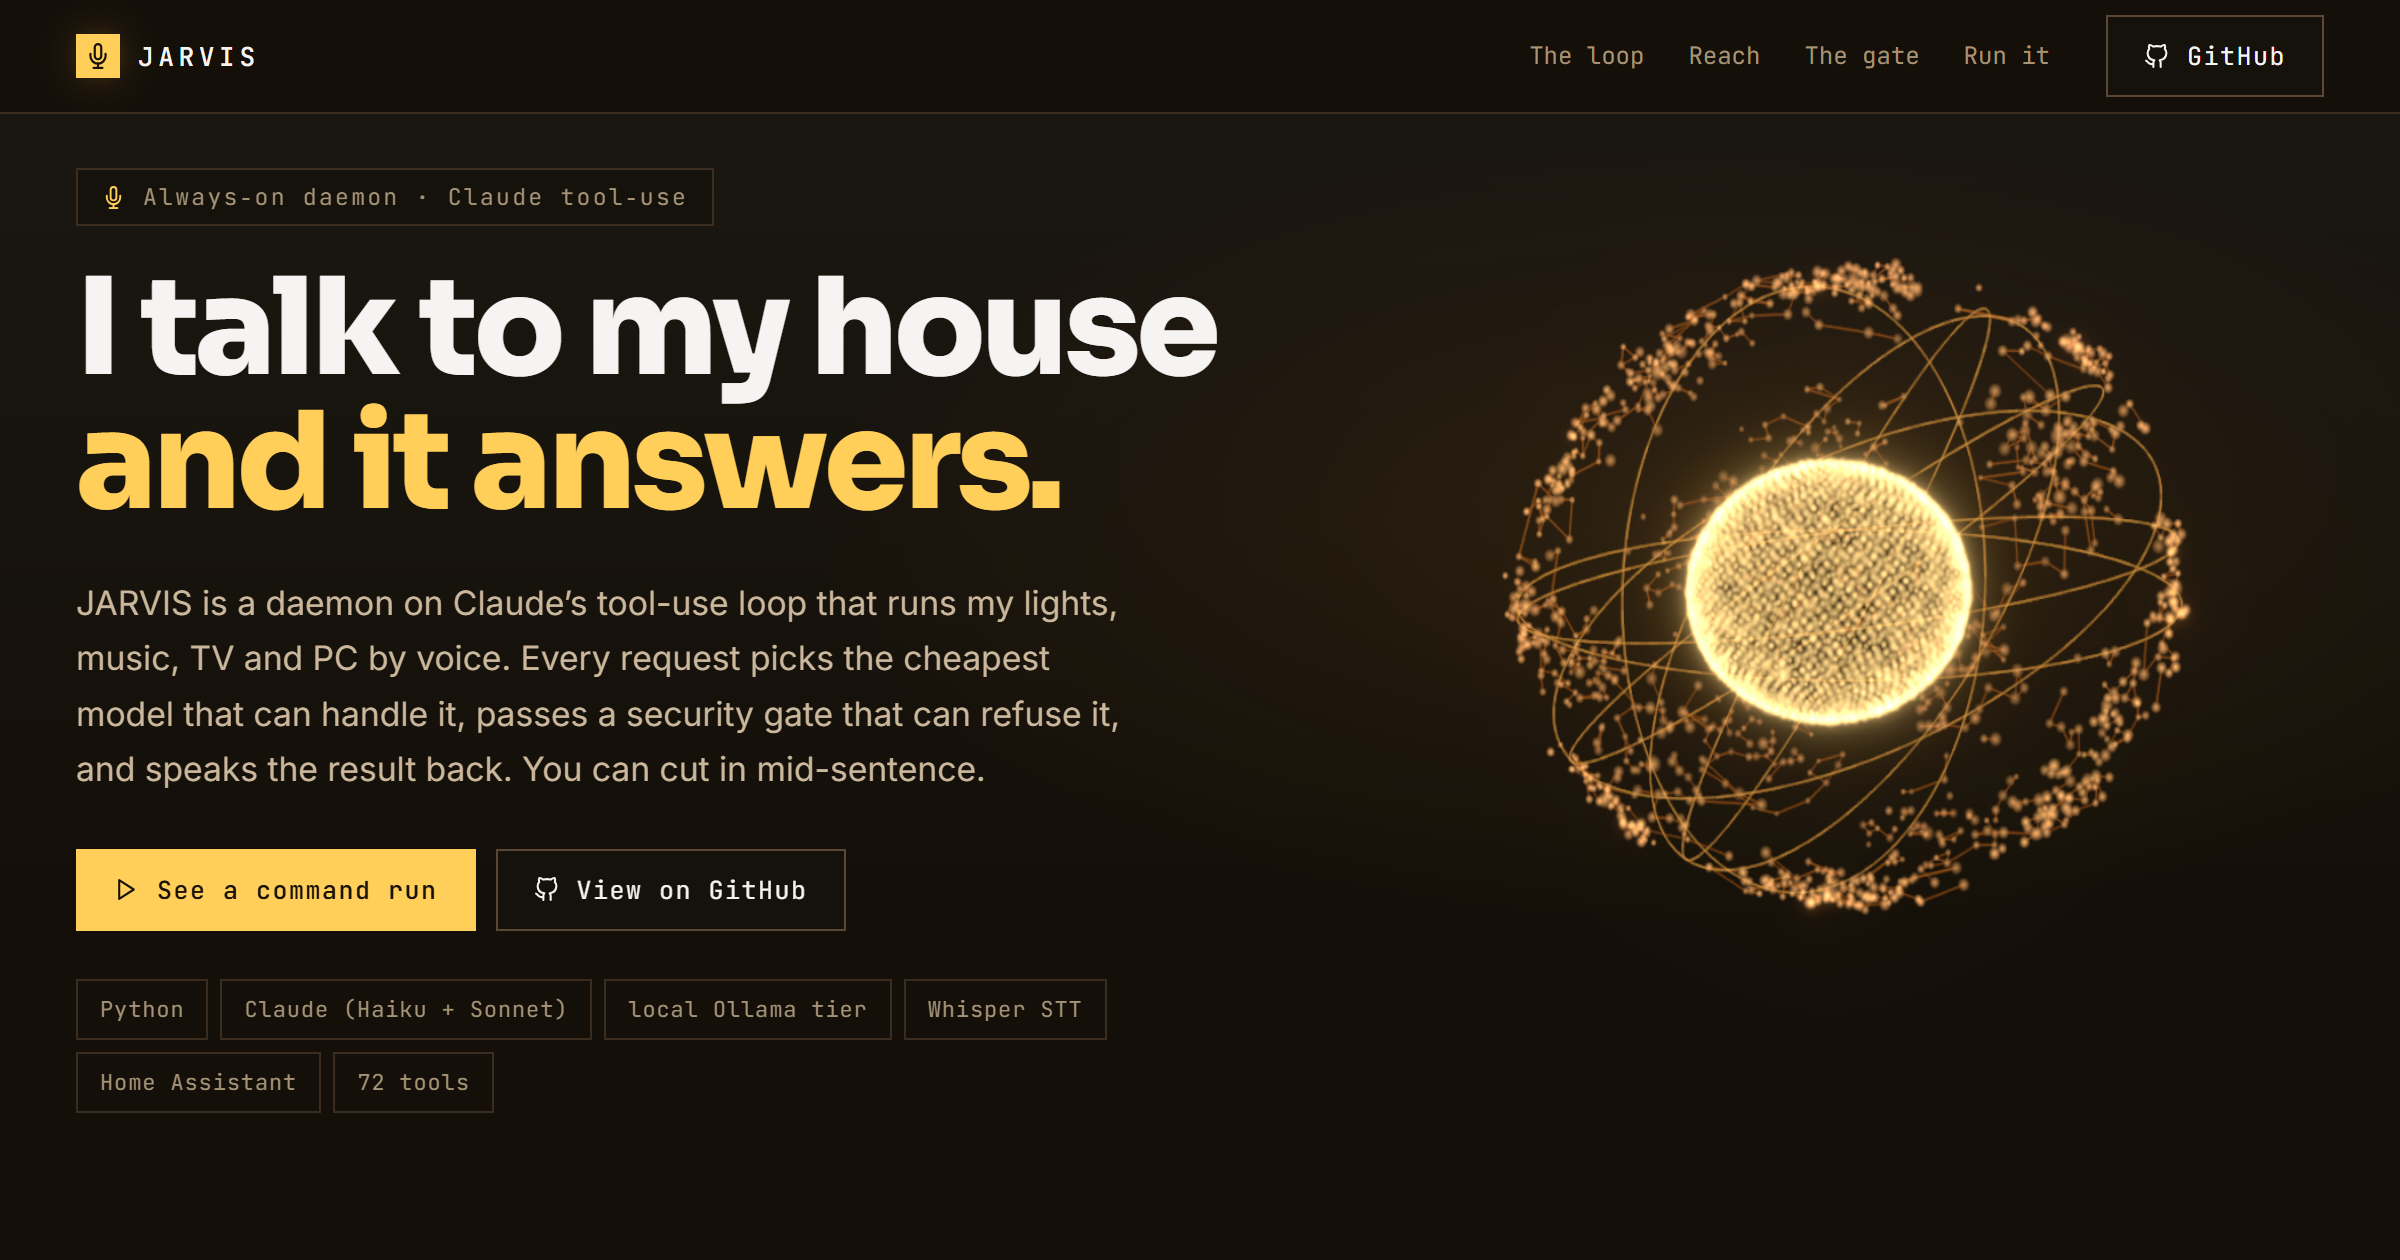
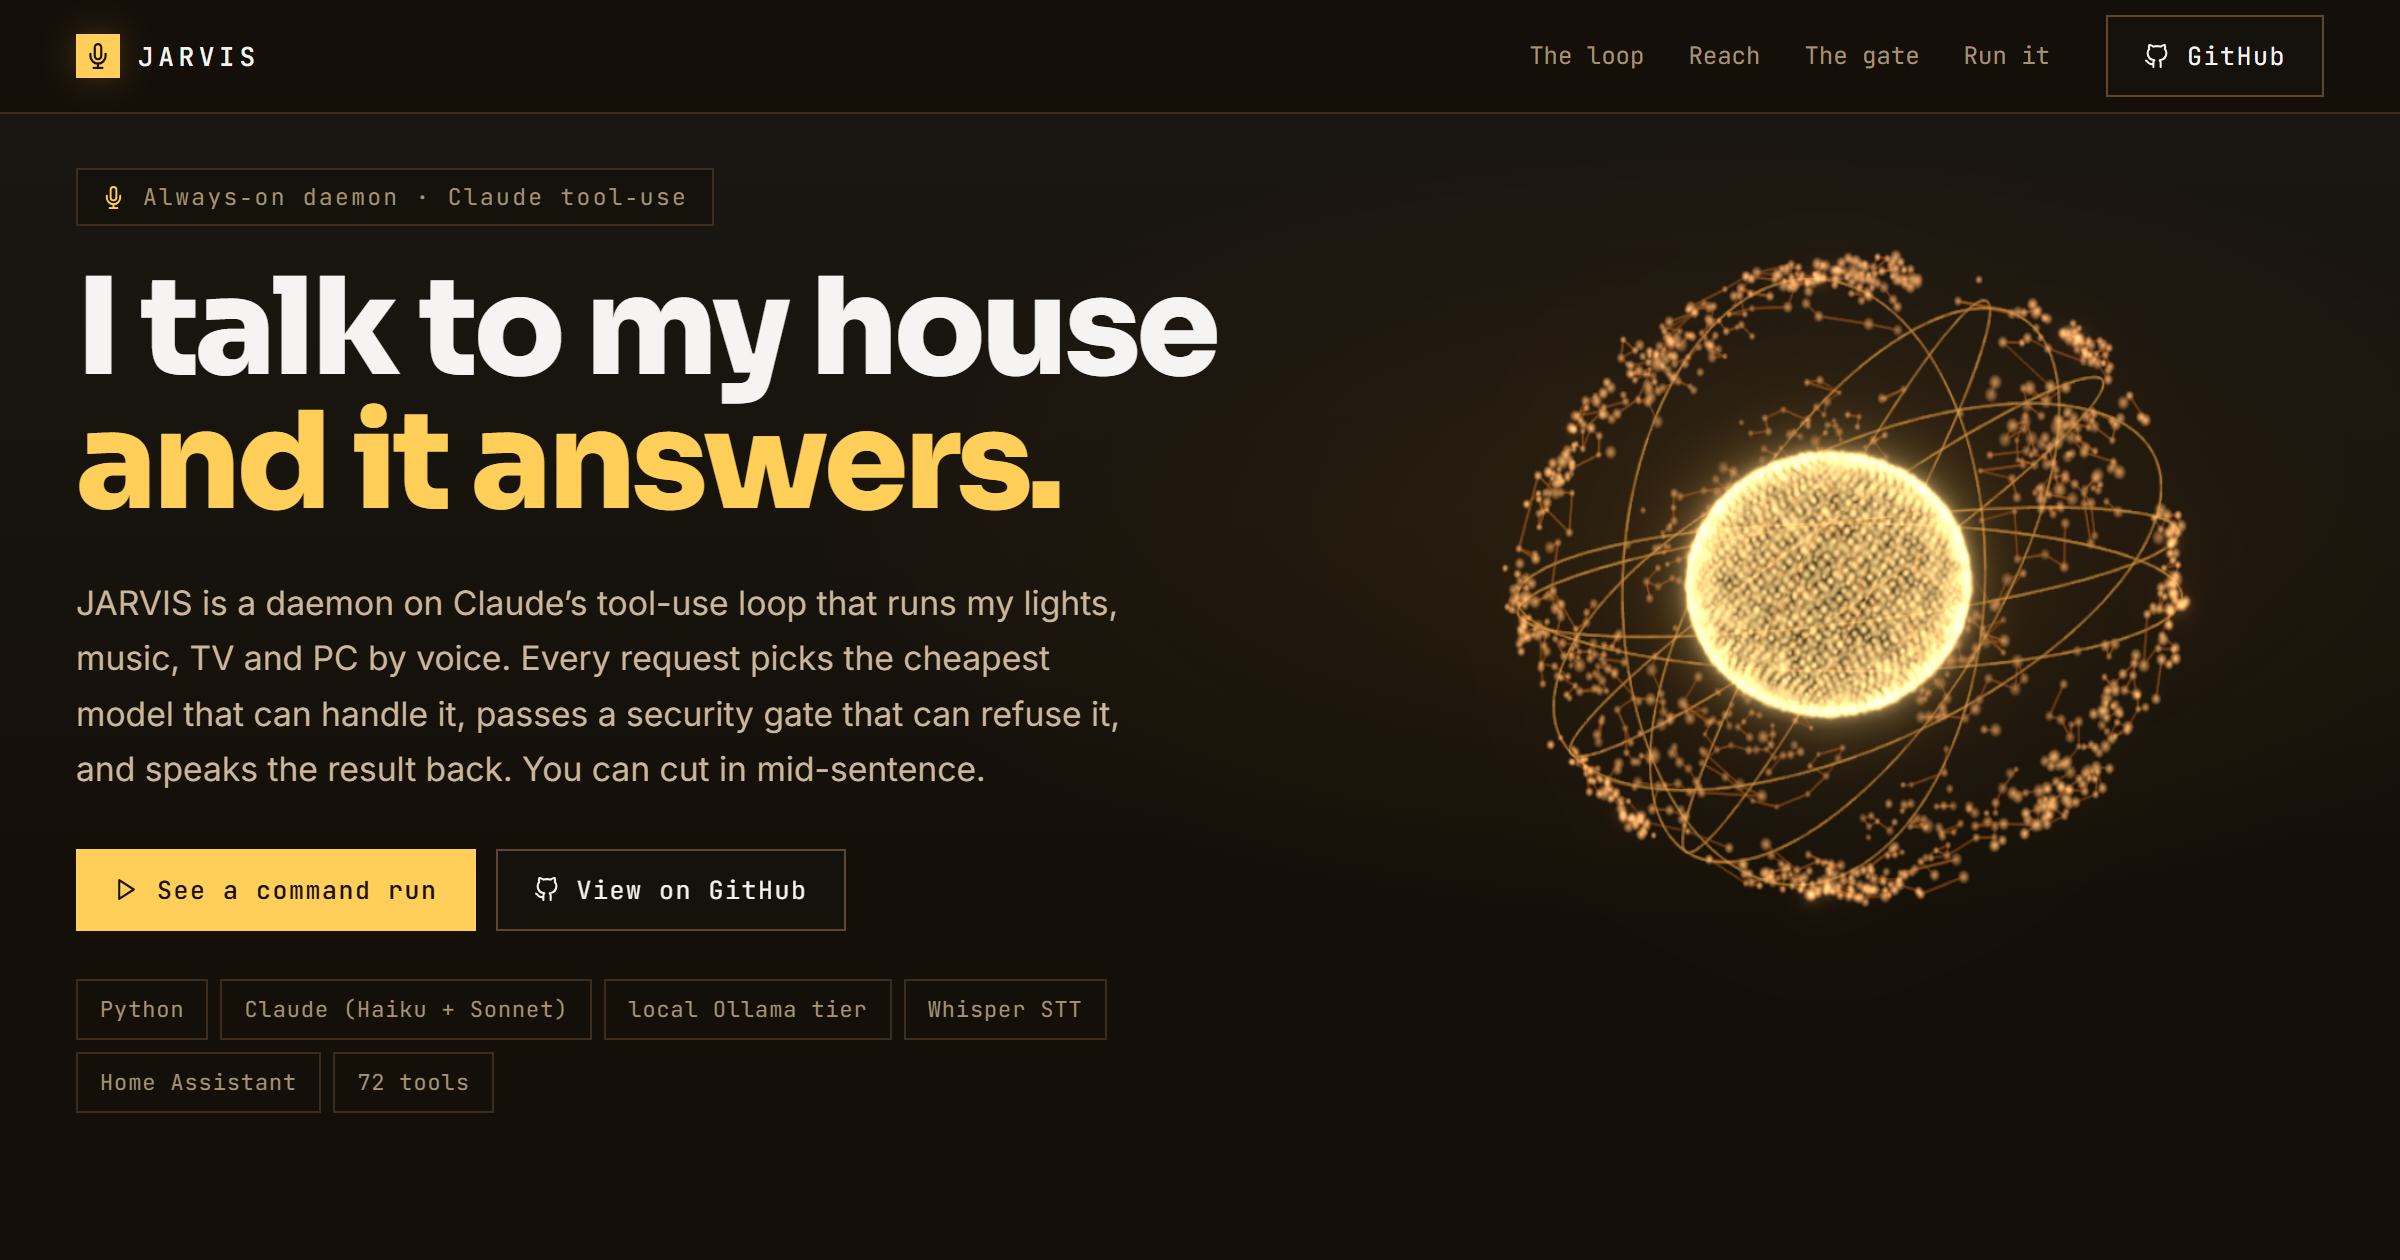
Fix stretched screenshots and give the orb one coherent path
Two things the layout change broke.

Images were drawn off their true aspect ratios. Each <img> carries explicit
width and height attributes so the layout does not jump while they load, but
`.shot img` set only `width: 100%` — so the height ATTRIBUTE became the used
height and every screenshot was squeezed or stretched. cli.png is 2.61:1 and
was being drawn at 3.02:1. Adding `height: auto` fixes all three.

Two related problems came out of that:

- Nothing capped an image at its own pixel width, so widening the reading
  column to 860px upscaled cli.png (745px natural) into blur. Each figure now
  caps at its image's natural width; the frame shrinks to fit the evidence
  rather than the evidence stretching to fit the frame.
- audit.png was 1905x375 with only its left ~690px carrying any content — the
  rest was empty terminal. In the guard beat's 600px column that drew the log
  text at 31% and made it unreadable. Cropped to its content: 692x328, 72K to
  48K, and now legible at full size. The .shot-scroll box it needed is gone.

The orb moved erratically for two reasons, both fixed.

useActiveBeat picked the beat whose CENTRE was nearest the viewport centre.
Beats differ wildly in height — the hero is 76vh, `reach` is a 13-row register
— so while reading the middle of a tall beat, a short neighbour's centre could
be closer, and the orb would go stand beside a section you were not looking at.
It is now the beat the midline is inside: monotonic with scroll, always the one
[…]

Changed region(s): [[0.625, 0.1857, 0.9375, 0.7429]]

diff --git a/src/orb/Orb.jsx b/src/orb/Orb.jsx
@@ -29,15 +29,46 @@ const clamp01 = (v) => Math.min(1, Math.max(0, v))
 //           of the 600px column, on any aspect
 //   1.05 -> centre just past the right edge, so only the limb crosses it; this
 //           is what the wide beats need, their column spanning the page
+// THE PATH: one traverse down the page, with a single reversal.
+//
+// The old path went right, right, off-right, off-right, LEFT, off-RIGHT, right
+// — three full-width reversals, two of them sweeping the orb straight across
+// the middle of the screen behind whatever you were reading. That is what read
+// as erratic. It now enters on the right, exits right, crosses once at the
+// gate, and finishes on the left.
+//
+// The one crossing is placed at `guard` on purpose: the gate is the point in
+// the story where the daemon changes its mind about a request, so it is the
+// one place the orb changing sides means something.
+//
+// This is why `open` is right-aligned rather than left. Bookending the page
+// with the orb back on the right would be tidier, but the return trip from
+// off-left to right would drag it across the full width behind the closing
+// content. The bookend is given up deliberately.
+//
+// X IS A FRACTION OF THE VISIBLE HALF-WIDTH, NOT A WORLD UNIT. The camera is
+// fov 45 at z=6, so the visible height is fixed at 2 * tan(22.5deg) * 6 = 4.98
+// world units but the visible WIDTH scales with the viewport's aspect — about
+// 11 units wide at 16:9 and only 8 at 4:3. A fixed world offset that sits
+// neatly beside the column on a wide monitor therefore slides off the right
+// edge entirely on a narrow one. r3f hands us the measured viewport each
+// frame, so the placement is taken from that instead of an assumed aspect.
+//
+//   |x| ~ 0.52 -> centre at 76% across: the orb sits whole in the free half,
+//                 clear of the 600px column, at any aspect
+//   |x| ~ 1.02 -> centre just past the edge, so only the limb crosses it;
+//                 what the wide beats need, their column spanning the page
+//
+// Y drifts gently downward across the page so the traverse reads as a descent
+// rather than a slide along a rail.
 const OFFSETS = [
-  [0.52, 0.15],  // 0 hero   — column left, orb whole on the right
-  [0.52, 0],     // 1 listen — same placement, so the orb reads as one object
-                 //            carried down the page rather than re-staged
-  [1.05, 0],     // 2 act    — wide: limb only
-  [1.08, 0],     // 3 reach  — wide: limb only
-  [-0.52, 0],    // 4 guard  — column right, orb whole on the left
-  [1.05, 0],     // 5 state  — wide: limb only
-  [0.52, 0],     // 6 open   — back to the hero's placement, closing the loop
+  [0.52, 0.18],   // 0 hero   — column left, orb whole on the right, high
+  [0.52, -0.05],  // 1 listen — same side, settling: one object carried down
+  [1.00, -0.28],  // 2 act    — wide column, so it slides out: limb only
+  [1.04, -0.10],  // 3 reach  — stays out right
+  [-0.52, 0.02],  // 4 guard  — THE reversal. Column right, orb whole on left
+  [-1.00, -0.22], // 5 state  — continues left, out past the edge
+  [-0.52, 0.08],  // 6 open   — returns from the left, no sweep back across
 ]
 
 const SCALES = [0.60, 0.60, 0.80, 0.80, 0.60, 0.80, 0.60]
@@ -201,18 +232,32 @@ function Globe({ progressRef, beatRef, reduce, isMobile }) {
     // This used to be `const k = isMobile ? 0 : 1`, which pinned the orb dead
     // centre on mobile — i.e. directly behind every heading and paragraph on
     // the narrowest screens, the worst case rather than the safe one.
-    const bi = beatRef ? Math.max(0, Math.min(OFFSETS.length - 1, beatRef.current)) : 0
+    // beatRef carries a fractional beat position, so the target is interpolated
+    // between two placements rather than jumping to one. See useActiveBeat.
+    const bp = beatRef ? Math.max(0, Math.min(OFFSETS.length - 1, beatRef.current)) : 0
+    const i0 = Math.floor(bp)
+    const i1 = Math.min(OFFSETS.length - 1, i0 + 1)
+    const bf = bp - i0 // 'f' is already the morph segment's fraction
+
     // state.viewport is the visible extent at z=0 in world units, measured from
     // the real canvas rather than assumed from an aspect ratio.
     const halfW = state.viewport.width / 2
-    const off = isMobile ? MOBILE_OFFSET : OFFSETS[bi]
-    target.current.set(isMobile ? off[0] : off[0] * halfW, off[1], 0)
-    g.position.lerp(target.current, Math.min(1, delta * 3))
+    if (isMobile) {
+      target.current.set(MOBILE_OFFSET[0], MOBILE_OFFSET[1], 0)
+    } else {
+      const ox = OFFSETS[i0][0] + (OFFSETS[i1][0] - OFFSETS[i0][0]) * bf
+      const oy = OFFSETS[i0][1] + (OFFSETS[i1][1] - OFFSETS[i0][1]) * bf
+      target.current.set(ox * halfW, oy, 0)
+    }
+    // A light smoothing pass on top of an already-continuous target: it only
+    // takes the edge off frame-to-frame scroll sampling, it is not what moves
+    // the orb between beats any more.
+    g.position.lerp(target.current, Math.min(1, delta * 6))
 
     // Scale eases toward the beat's size at the same rate the position does, so
     // the orb reads as one object moving and receding rather than two effects.
-    const wantScale = isMobile ? MOBILE_SCALE : SCALES[bi]
-    scaleNow.current += (wantScale - scaleNow.current) * Math.min(1, delta * 3)
+    const wantScale = isMobile ? MOBILE_SCALE : SCALES[i0] + (SCALES[i1] - SCALES[i0]) * bf
+    scaleNow.current += (wantScale - scaleNow.current) * Math.min(1, delta * 6)
     g.scale.setScalar(scaleNow.current)
 
     // Written straight to the canvas element rather than through React state:

diff --git a/src/App.jsx b/src/App.jsx
@@ -295,6 +295,30 @@ function Beat({ id, align = 'center', bare = false, eyebrow, children }) {
 
 const BEAT_IDS = ['top', 'listen', 'act', 'reach', 'guard', 'state', 'open']
 
+/* Returns a FLOAT beat position — index plus progress toward the next one —
+ * so the orb glides instead of snapping.
+ *
+ * Two things were making it move erratically:
+ *
+ *  1. This used to pick the beat whose CENTRE was nearest the viewport centre.
+ *     The beats are wildly different heights (the hero is 76vh, `reach` is a
+ *     13-row register), so while you were reading the middle of a tall beat its
+ *     centre could be further from the midline than a short neighbour's — and
+ *     the orb would go and stand beside a section you were not looking at.
+ *     Now it is simply the beat the midline is inside, which is monotonic with
+ *     scroll and always the one you are actually reading.
+ *
+ *  2. The orb jumped between positions the instant the index changed. Now the
+ *     index carries a fraction, and the move is spread across the end of the
+ *     beat, so scrolling drives the transit directly.
+ *
+ * The plateau matters: the orb RESTS at its designed offset for the first 62%
+ * of a beat and only travels during the last 38%. Interpolating across the
+ * whole beat would mean it is permanently in transit and never actually
+ * reaches any of the placements the offsets describe.
+ */
+const MOVE_FROM = 0.62
+
 function useActiveBeat() {
   const beatRef = useRef(0)
   useEffect(() => {
@@ -302,15 +326,22 @@ function useActiveBeat() {
     const measure = () => {
       raf = 0
       const mid = window.innerHeight / 2
-      let best = 0, bd = Infinity
-      BEAT_IDS.forEach((id, i) => {
-        const el = document.getElementById(id)
-        if (!el) return
+      let i = 0
+      let frac = 0
+      for (let k = 0; k < BEAT_IDS.length; k++) {
+        const el = document.getElementById(BEAT_IDS[k])
+        if (!el) continue
         const r = el.getBoundingClientRect()
-        const d = Math.abs(r.top + r.height / 2 - mid)
-        if (d < bd) { bd = d; best = i }
-      })
-      beatRef.current = best
+        if (r.top <= mid) {
+          i = k
+          // how far the midline has travelled through this beat, 0..1
+          const t = r.height > 0 ? (mid - r.top) / r.height : 0
+          frac = t <= MOVE_FROM ? 0 : Math.min(1, (t - MOVE_FROM) / (1 - MOVE_FROM))
+        }
+      }
+      // smoothstep so the orb eases out of one placement and into the next
+      // rather than starting and stopping abruptly at the plateau edges
+      beatRef.current = i + frac * frac * (3 - 2 * frac)
     }
     const onScroll = () => { if (!raf) raf = requestAnimationFrame(measure) }
     measure()
@@ -392,7 +423,7 @@ export default function App() {
           and watch it decompose into the shape JARVIS writes to <code>audit.jsonl</code>.
         </p>
         <Anatomy />
-        <figure className="shot">
+        <figure className="shot shot-cli">
           <div className="shot-bar">clients.cli</div>
           <img src="/cli.png" loading="lazy" decoding="async" width="745" height="285" alt="A real JARVIS CLI session: play Die For You, open Firefox, and set a reminder" />
           <figcaption className="shot-cap">A real session — not a mockup.</figcaption>
@@ -444,9 +475,9 @@ export default function App() {
             </div>
           ))}
         </div>
-        <figure className="shot">
+        <figure className="shot shot-audit">
           <div className="shot-bar">logs/audit.jsonl</div>
-          <div className="shot-scroll"><img src="/audit.png" loading="lazy" decoding="async" width="1905" height="375" alt="JARVIS audit log: each tool call recorded with a read-only or write verdict" /></div>
+          <img src="/audit.png" loading="lazy" decoding="async" width="692" height="328" alt="JARVIS audit log: each tool call recorded with a read-only or write verdict" />
           <figcaption className="shot-cap">Every tool call, recorded with its verdict.</figcaption>
         </figure>
       </Beat>
@@ -476,7 +507,7 @@ export default function App() {
       </Beat>
 
       {/* 06 — OPEN */}
-      <Beat id="open" align="left" eyebrow="06 — Run it">
+      <Beat id="open" align="right" eyebrow="06 — Run it">
         <h2 className="beat-h2">Run your own.</h2>
         <p className="lead">
           The brain (<code>jarvisd</code>) binds to localhost and talks to thin voice and CLI clients.

diff --git a/src/styles.css b/src/styles.css
@@ -337,8 +337,19 @@ code, pre { font-family: var(--mono); }
 /* ================================================================= shots === */
 /* Same reading column as the pipeline, for the same reason. */
 .shot { margin: 30px 0 0; max-width: 860px; overflow: hidden; }
-.shot img { display: block; width: 100%; }
-.shot-scroll { max-height: 420px; overflow-y: auto; }
+/* height:auto is load-bearing. Every <img> here carries explicit width and
+   height attributes (for intrinsic sizing, so the layout does not jump while
+   they load). Without height:auto that height ATTRIBUTE becomes the used
+   height while width:100% sets the width, so each screenshot is squeezed or
+   stretched off its true aspect ratio — cli.png is 2.61:1 and was being drawn
+   at 3.02:1. */
+.shot img { display: block; width: 100%; height: auto; }
+
+/* Never upscale a screenshot past its own pixels: it only adds blur. The cap
+   is each image's natural width, so the frame shrinks to fit the evidence
+   rather than the evidence being stretched to fit the frame. */
+.shot-cli { max-width: 745px; }    /* cli.png is 745px wide */
+.shot-audit { max-width: 692px; }  /* audit.png is 692px wide */
 .shot-cap { font-family: var(--mono); font-size: 11.5px; color: var(--ink-faint); padding: 10px 15px; border-top: 1px solid var(--rule); margin: 0; }
 
 /* ================================================================ footer === */
@@ -359,9 +370,6 @@ code, pre { font-family: var(--mono); }
   .feat-grid { grid-template-columns: 1fr; }
   .two-col { grid-template-columns: 1fr; }
   .stat-row { grid-template-columns: repeat(2, 1fr); }
-  /* Release the audit screenshot's inner scroll box on touch: a drag starting
-     inside a 420px overflow-y:auto panel scrolls the panel, not the page. */
-  .shot-scroll { max-height: none; overflow-y: visible; }
 }
 @media (max-width: 620px) {
   .map-grid { grid-template-columns: 1fr; }

diff --git a/README.md b/README.md
@@ -67,6 +67,23 @@ you add a surface, only the array changes.
   the viewport's aspect, so a world offset tuned on a 16:9 monitor slides off
   frame entirely at 4:3. The value is multiplied by `state.viewport.width / 2`
   each frame.
+- **Screenshots need `height: auto`.** Every `<img>` carries explicit width and
+  height attributes for intrinsic sizing. Without `height: auto` the height
+  ATTRIBUTE becomes the used height while `width: 100%` sets the width, and
+  each one is silently drawn off its true aspect ratio.
+- **Crop screenshots to their content before adding them.** `audit.png` was
+  1905px wide with only ~690px of it carrying anything; squeezed into a 600px
+  column that put the log text at 31% and made it unreadable.
+- **`beatRef` holds a FLOAT**, not an index: beat number plus progress toward
+  the next, so the orb interpolates between placements instead of snapping. The
+  orb rests at its offset for the first 62% of a beat and travels during the
+  last 38%; interpolating across the whole beat means it never actually reaches
+  any designed placement. The core morph is driven by scroll progress and is
+  independent of this.
+- **The orb path has exactly one reversal, at the gate.** Each extra reversal
+  drags it across the full width behind whatever you are reading. This is why
+  `open` is right-aligned: bookending with the orb back on the right would cost
+  a full-width sweep behind the closing content.
 - **Mobile fades the orb on scroll distance, not on beat index.** The phone hero
   is taller than the viewport, so the reader scrolls through the orb's band
   while still on beat 0; a per-beat gate leaves the limb over the lead
